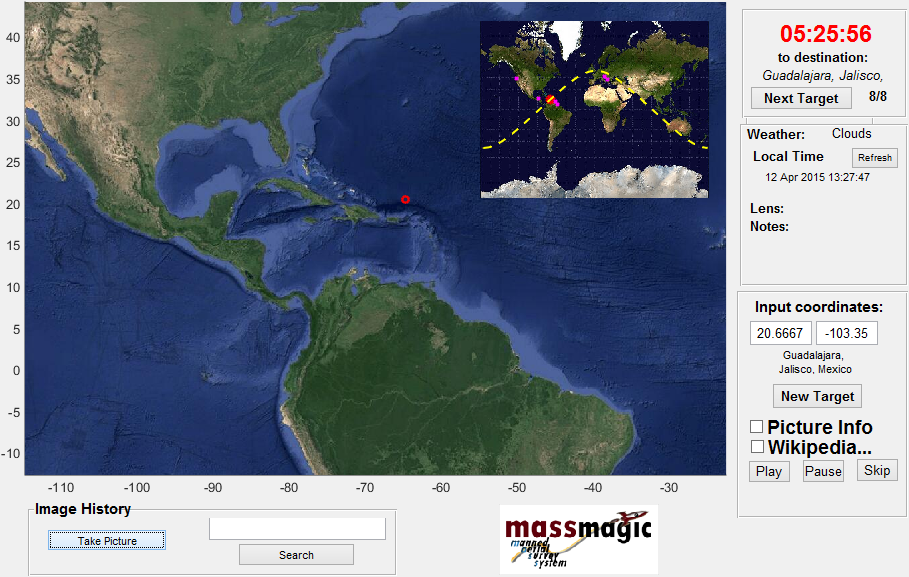
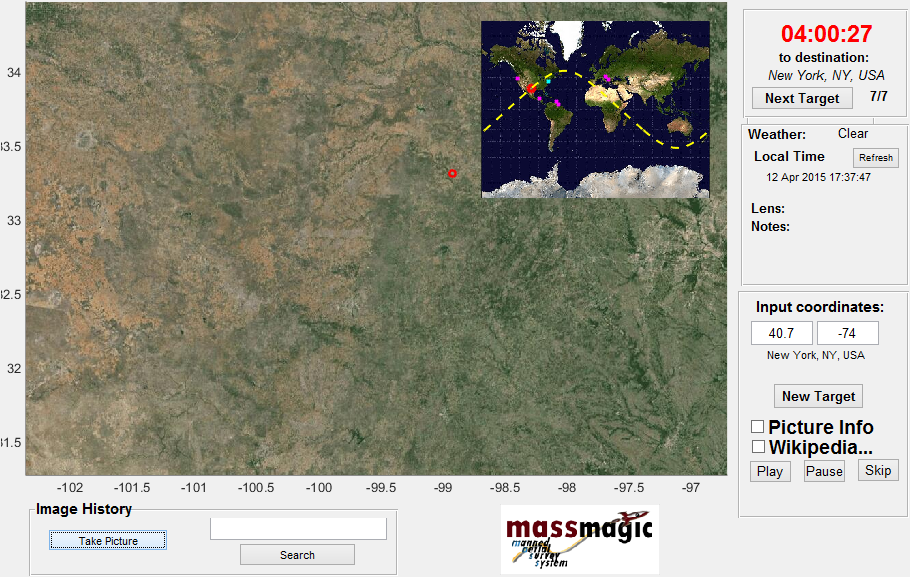
realtime target update, fixed bug with weather

diff --git a/spaceflight.m b/spaceflight.m
@@ -61,18 +61,19 @@ handles.pausebool=1;
 [y, Fs]=audioread(strcat('Music/',handles.playlist(handles.count).name));
 handles.player=audioplayer(y,Fs);
 
-%% Timer
+%% Plot maps
 [lat,lon] = getISScoord();
 
 %Big Map
-set(handles.BigMap,'XLim',[lon-45,lon+45],'YLim',[lat-21,lat+21])
-plot(handles.BigMap,plot_google_map)
-plot(handles.BigMap,lon,lat,'or','MarkerSize',5,'LineWidth',2)
+plot_google_map
+axes(handles.BigMap)
+%plot(handles.BigMap,plot_google_map)
+%plot(handles.BigMap,lon,lat,'or','MarkerSize',5,'LineWidth',2)
+plot(lon,lat,'or','MarkerSize',5,'LineWidth',2)
 
 %Little Map
-ax = handles.LilMap;
-plotOrbitalPath(ax)
-%plot(handles.LilMap,plotOrbitalPath)
+    axes(handles.LilMap);
+    plotOrbitalPath(lat);
 
 %% Logo
 axes(handles.logo);
@@ -144,47 +145,43 @@ function NewTarget_Callback(hObject, eventdata, handles)
 % hObject    handle to NewTarget (see GCBO)
 % eventdata  reserved - to be defined in a future version of MATLAB
 % handles    structure with handles and user data (see GUIDATA)
-    
-    url1 = 'https://maps.googleapis.com/maps/api/geocode/json?latlng=';
-    localidad = '&result_type=locality&key=AIzaSyB58vqRxPw0e8s8nPNl7QyratJss20c0mY';
-    estado = '&result_type=administrative_area_level_1&key=AIzaSyB58vqRxPw0e8s8nPNl7QyratJss20c0mY';
-    lat = handles.NewLat.String;
-    lng = handles.NewLon.String;
-    target = strcat(url1,lat,',',lng,localidad);
+
+localidad = '&result_type=locality&key=AIzaSyB58vqRxPw0e8s8nPNl7QyratJss20c0mY';
+estado = '&result_type=administrative_area_level_1&key=AIzaSyB58vqRxPw0e8s8nPNl7QyratJss20c0mY';
+url1 = 'https://maps.googleapis.com/maps/api/geocode/json?latlng=';
+lat = handles.NewLat.String;
+lng = handles.NewLon.String;
+target = strcat(url1,lat,',',lng,localidad);
+target = urlread(target);
+load errcode
+if strcmp(target,errcode)
+    target = strcat(url1,lat,',',lng,estado);
     target = urlread(target);
-    target = strsplit(target,'"formatted_address" : "');
-    try
-        target = strsplit(target{2},'",');
-        target = target{1};
-        handles.NewTargetName.String = target;
-        site_no = numel(handles.sites)+1;
-        handles.sites(site_no).site_no = site_no;
-        handles.sites(site_no).target_name = target;
-        handles.sites(site_no).lat = lat;
-        handles.sites(site_no).long = lng;
-        handles.notes(site_no).notes = [];
-        handles.notes(site_no).lenses = [];
-        guidata(hObject,handles)
-    catch
-        target = strcat(url1,lat,',',lng,estado);
-        target = urlread(target);
-        target = strsplit(target,'"formatted_address" : "'); 
-        try
-            target = strsplit(target{2},'",');
-            target = target{1};
-            handles.NewTargetName.String = target;
-            site_no = numel(handles.sites)+1;
-            handles.sites(site_no).site_no = site_no;
-            handles.sites(site_no).target_name = target;
-            handles.sites(site_no).lat = lat;
-            handles.sites(site_no).long = lng;
-            handles.notes(site_no).notes = [];
-            handles.notes(site_no).lenses = [];
-            guidata(hObject,handles)
-        catch
-            handles.NewTargetName.String = 'Ocean / Invalid';
-        end
+    if strcmp(target,errcode)
+        handles.NewTargetName.String = 'Ocean / Invalid';
+        return
     end
+end
+target = strsplit(target,'"formatted_address" : "');
+
+target = strsplit(target{2},'",');
+target = target{1};
+handles.NewTargetName.String = target;
+site_no = numel(handles.sites)+1;
+handles.sites(site_no).site_no = site_no;
+handles.sites(site_no).target_name = target;
+handles.sites(site_no).lat = lat;
+handles.sites(site_no).long = lng;
+handles.notes(site_no).notes = [];
+handles.notes(site_no).lenses = [];
+
+%Add new target to little map
+p = findobj(handles.LilMap,'-depth',1,'Color',[1 0 1]);
+lng = str2double(lng);
+lat = str2double(lat);
+[lng,lat] = mercatorProjection(lng, lat, 773, 599);
+set(p,'XData',[p.XData lng],'YData',[p.YData lat]);
+guidata(hObject,handles)
 
     
 function NewLat_Callback(hObject, eventdata, handles)
@@ -387,13 +384,13 @@ else
     if handles.count>length(handles.playlist)
         handles.count=1;
     end
-    [y Fs]=audioread(strcat('Music\',handles.playlist(handles.count).name));
+    [y,Fs]=audioread(strcat('Music\',handles.playlist(handles.count).name));
     handles.player=audioplayer(y,Fs);
     set(handles.songtitle,'String',handles.playlist(handles.count).name(1:length(handles.playlist(handles.count).name)-4));
     play(handles.player);
     handles.count=handles.count+1;
 end
-guidata(hObject,handles);
+%guidata(hObject,handles);
 
 
 % --- Executes on button press in PauseButton.
@@ -403,7 +400,7 @@ function PauseButton_Callback(hObject, eventdata, handles)
 % handles    structure with handles and user data (see GUIDATA)
 handles.pausebool=1;
 handles.player.pause;
-guidata(hObject,handles)
+%guidata(hObject,handles)
 
 % --- Executes on button press in SkipButton.
 function SkipButton_Callback(hObject, eventdata, handles)
@@ -418,9 +415,9 @@ handles.count=handles.count+1;
 if handles.count>length(handles.playlist)
     handles.count=1;
 end
-disp(handles.playlist);
-disp(handles.count);
-[y Fs]=audioread(strcat('Music\',handles.playlist(handles.count).name));
+%disp(handles.playlist);
+%disp(handles.count);
+[y,Fs]=audioread(strcat('Music\',handles.playlist(handles.count).name));
 handles.player=audioplayer(y,Fs);
 set(handles.songtitle,'String',handles.playlist(handles.count).name(1:length(handles.playlist(handles.count).name)-4));
 play(handles.player);
@@ -448,6 +445,17 @@ targetstr=strcat(num2str(handles.sitecounter),'/',num2str(length(handles.sites))
 set(handles.targetlist,'String',targetstr);
 str=getLocalTime(handles.lat,handles.lon);
 set(handles.localtime,'String',str);
+
+%Update next target marker
+delete(findobj(handles.LilMap,'-depth',1,'Color',[0 1 1]));
+p = findobj(handles.LilMap,'-depth',1,'Color',[1 0 1]);
+x = p.XData;
+y = p.YData;
+s = handles.sitecounter;
+axes(handles.LilMap)
+hold on
+plot(x(s),y(s),'xc','MarkerSize',3,'LineWidth',2);
+hold off
 guidata(hObject,handles)
 
 % --- Executes during object creation, after setting all properties.
@@ -476,9 +484,9 @@ function update_display(hObject,eventdata,hfigure)
 [y,x] = getISScoord();
 handles = guidata(hfigure);
 t2=subtractTime(handles.countdown.String,1);
-set(handles.BigMap.Children(2),'XData',x,'YData',y,'Marker','o','MarkerSize',5,'LineWidth',2);
+p = findobj(handles.BigMap,'-depth',1,'Color',[1 0 0]);
+set(p,'XData',x,'YData',y,'Marker','o','MarkerSize',5,'LineWidth',2);
 set(handles.countdown,'String',t2);
-%guidata(hObject, handles);
 
 function searchbox_Callback(hObject, eventdata, handles)
 % hObject    handle to searchbox (see GCBO)
@@ -524,7 +532,7 @@ l=handles.sites(handles.sitecounter).lenses;
 texttosave=strcat(w,d,n,l);
 texttosave=strrep(texttosave,'\n','');
 saveImage(handles.pcount,texttosave);
-guidata(hObject, handles);
+%guidata(hObject, handles);
 
 
 % --- Executes on button press in refresh.
@@ -534,4 +542,4 @@ function refresh_Callback(hObject, eventdata, handles)
 % handles    structure with handles and user data (see GUIDATA)
 str=getLocalTime(handles.lat,handles.lon);
 set(handles.localtime,'String',str);
-guidata(hObject,handles);
+%guidata(hObject,handles);

diff --git a/plotOrbitalPath.m b/plotOrbitalPath.m
@@ -1,9 +1,6 @@
-function plotOrbitalPath(ax)
+function plotOrbitalPath(lat1)
 %UNTITLED2 Summary of this function goes here
 %   Detailed explanation goes here
-axes(ax);
-[lat1,lon1] = getISScoord();
-pause(1)
 [lat2,lon2] = getISScoord();
 
 %normalize
@@ -54,13 +51,16 @@ plot(x1,y1,'--y','LineWidth',1.5)
 plot(x2,y2,'--y','LineWidth',1.5)
 
 sites = parseXMLFile(strcat(pwd,'\TargetSites.xml'));
-for i = 1:numel(sites)
-    lon = str2double(sites(i).long);
-    lat = str2double(sites(i).lat);
-    [lon,lat] = mercatorProjection(lon,lat, imgW, imgH);
-    plot(lon,lat,'xm','MarkerSize',3,'LineWidth',2)
-end
 
+longitude = zeros(numel(sites),1);
+latitude = zeros(numel(sites),1);
+for i = 1:numel(sites)
+    lon3 = str2double(sites(i).long);
+    lat3 = str2double(sites(i).lat);
+    [longitude(i),latitude(i)] = mercatorProjection(lon3,lat3, imgW, imgH);
+end
+plot(longitude,latitude,'xm','MarkerSize',3,'LineWidth',2);
+plot(longitude(1),latitude(1),'xc','MarkerSize',3,'LineWidth',2);
 hold off
 
 end

diff --git a/plot_google_map.m b/plot_google_map.m
@@ -109,7 +109,7 @@ if isnumeric(apiKey)
     if exist('api_key.mat','file')
         load api_key
     else
-        apiKey = '';
+        apiKey = 'AIzaSyB58vqRxPw0e8s8nPNl7QyratJss20c0mY';
     end
 end
 hold on

diff --git a/weather.m b/weather.m
@@ -19,5 +19,6 @@ function [currentweather] = weather(S)
             currentweather = currentweather(2:end-1);
         end
     catch
+        currentweather = ' ';
     end
 end
